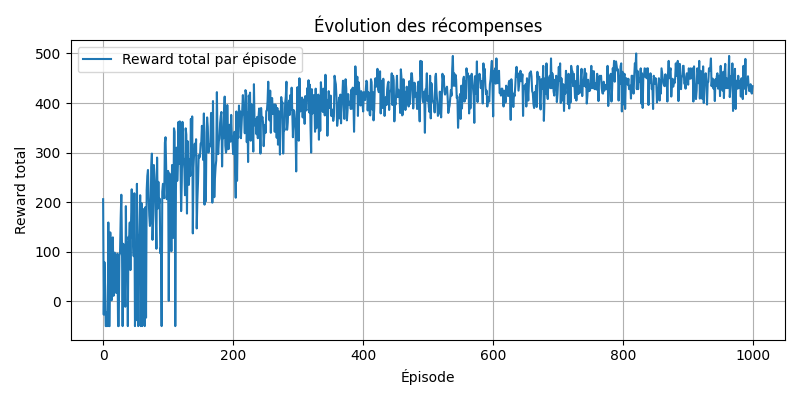
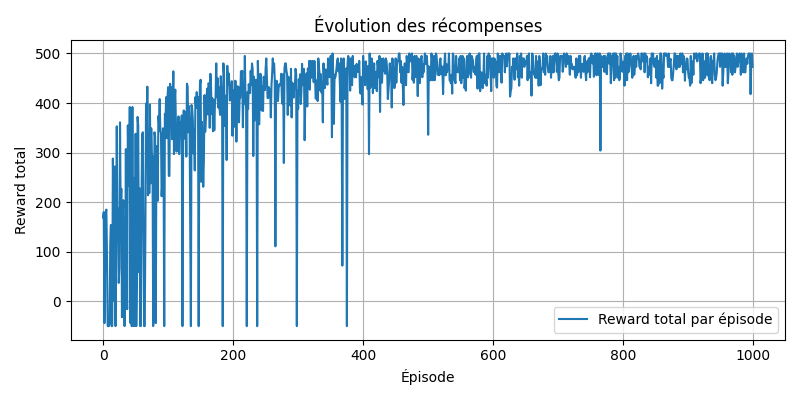
Remplacé action par +-1 au lieu +-2

Changed region(s): [[0.0938, 0.12, 0.9688, 0.84], [0.6875, 0.78, 0.9688, 0.84]]

diff --git a/main.py b/main.py
@@ -35,9 +35,9 @@ def faire_action(chambre, action):
     
     # Effet de l'action
     if action == 0:  # Refroidir
-        chambre['temp'] -= 2
+        chambre['temp'] -= 1
     elif action == 2:  # Chauffer
-        chambre['temp'] += 2
+        chambre['temp'] += 1
     # Sinon (action == 1) : rien faire
     
     # Un peu de variation naturelle
